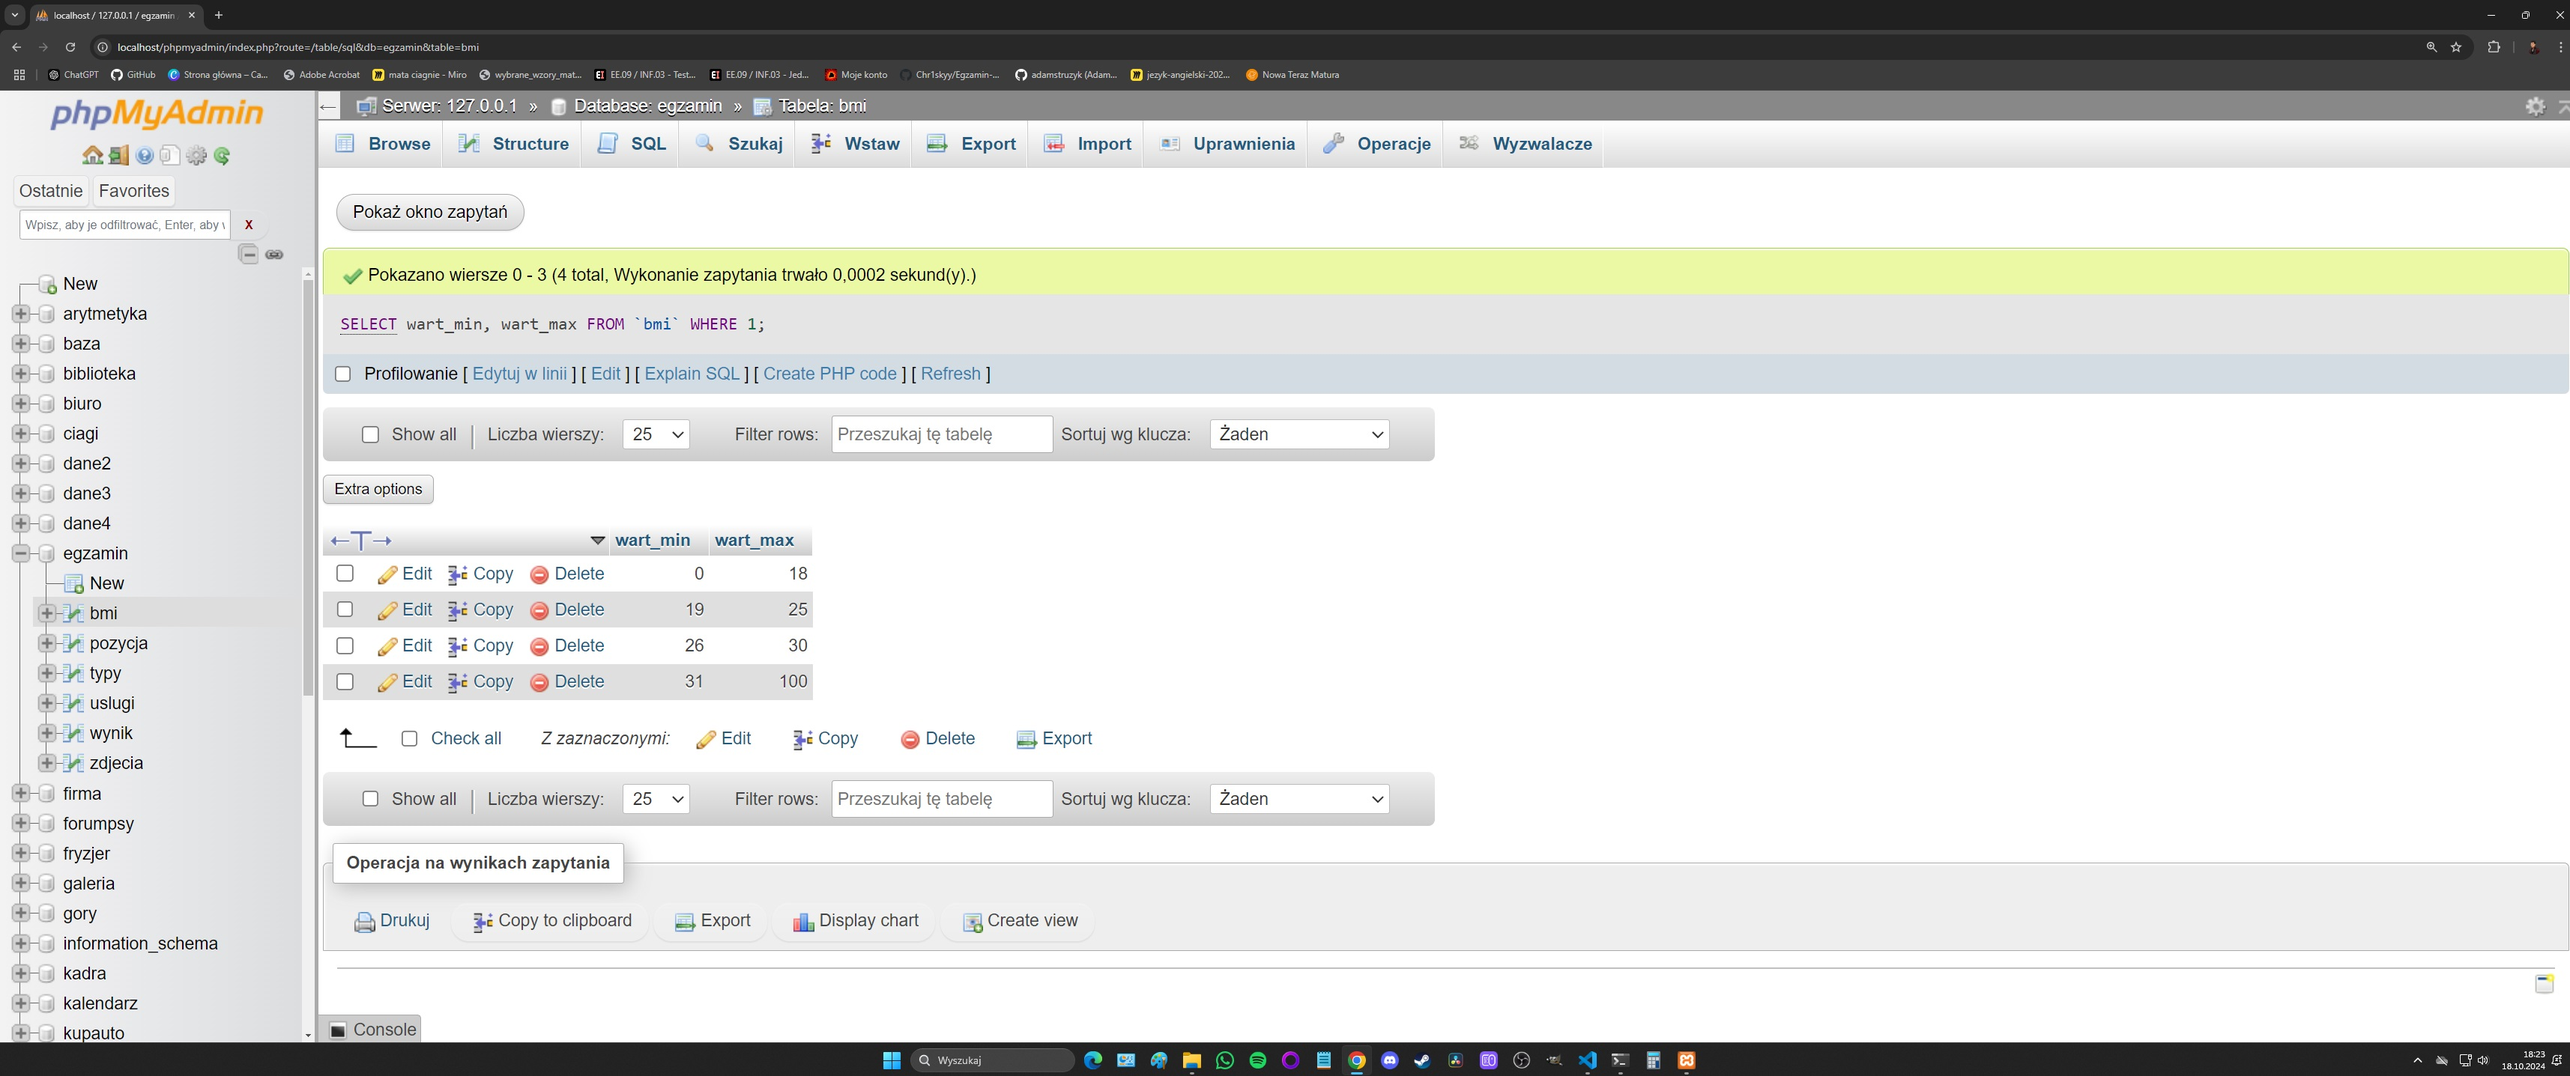
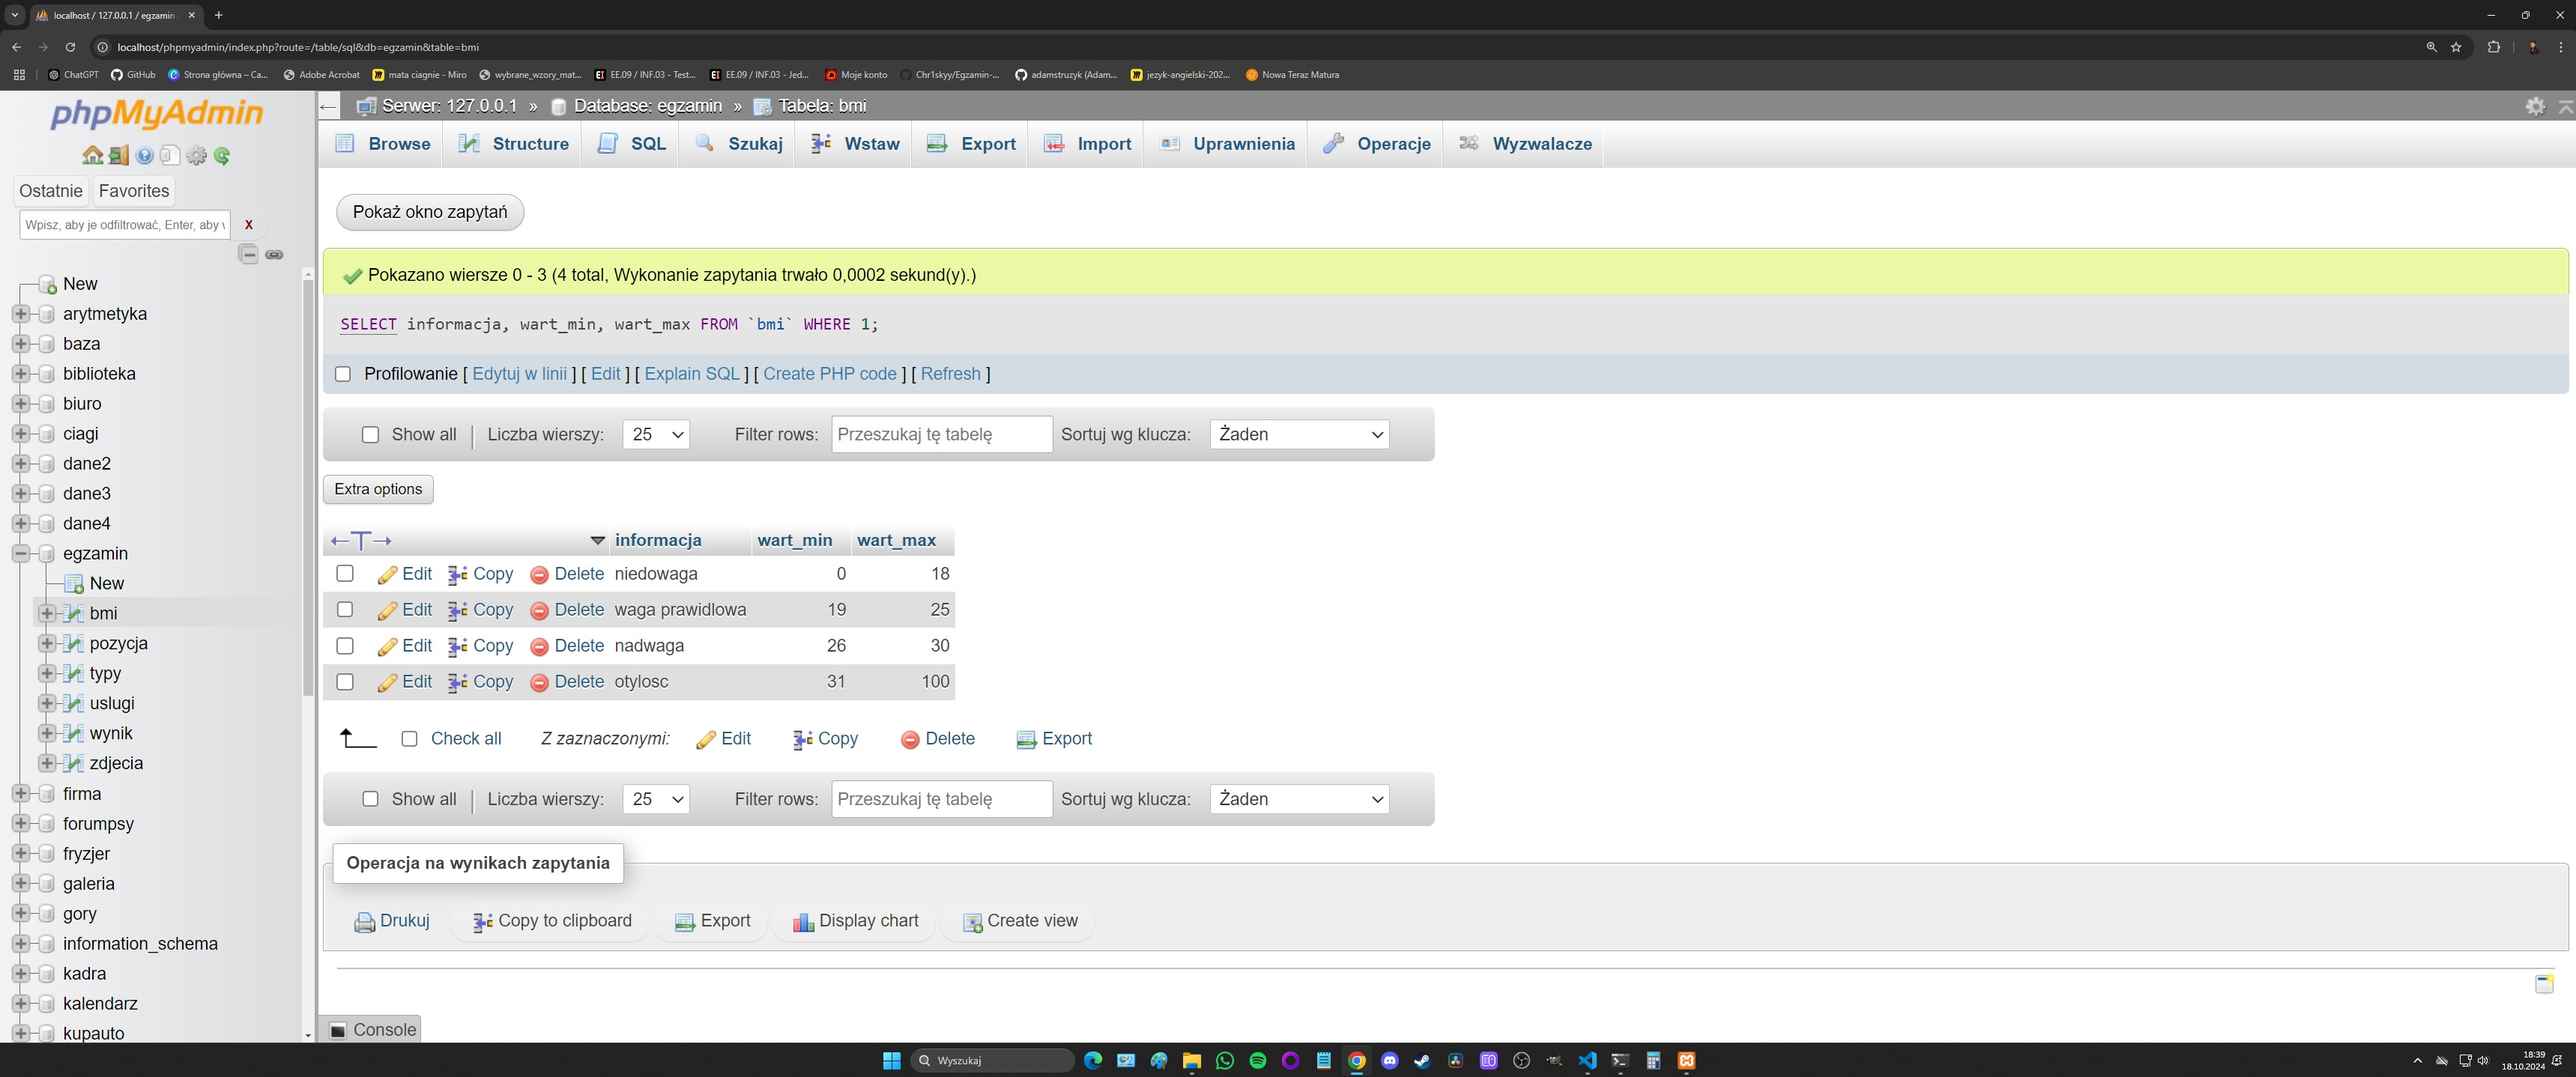
php

diff --git a/W_TRAKCIE/ee09_2021_01_03/rozwiazanie/styl3.css b/W_TRAKCIE/ee09_2021_01_03/rozwiazanie/styl3.css
@@ -58,7 +58,7 @@ table{
     border: 1px double white;
 }
 
-td:hover{
+tr:hover{
     background-color: #d3d3d3;
     color: black;
 }

diff --git a/W_TRAKCIE/ee09_2021_01_03/rozwiazanie/bmi.php b/W_TRAKCIE/ee09_2021_01_03/rozwiazanie/bmi.php
@@ -1,0 +1,90 @@
+<!DOCTYPE html>
+<html lang="pl">
+<head>
+    <meta charset="UTF-8">
+    <meta name="viewport" content="width=device-width, initial-scale=1.0">
+    <link rel="stylesheet" href="styl3.css">
+    <title>Twoje BMI</title>
+</head>
+<body>
+    <header id="logo">
+        <img src="wzor.png" alt="wzór BMI">
+    </header>
+    <header id="baner">
+        <h1>Oblicz swoje BMI</h1>
+    </header>
+    <main>
+        <table>
+            <tr>
+                <th>Interpretacja BMI</th>
+                <th>Wartość minimalna</th>
+                <th>Wartość maksymalna</th>
+            </tr>
+            <!-- skrypt 1 -->
+            <?php
+                $polaczenie = mysqli_connect('localhost', 'root', '', 'egzamin');
+                if(!$polaczenie){
+                    exit();
+                }
+                else{
+                    $zapytanie = "SELECT informacja, wart_min, wart_max FROM `bmi` WHERE 1;";
+                    $odpowiedz = mysqli_query($polaczenie, $zapytanie);
+                    $text = " ";
+                    while($tablica = mysqli_fetch_row($odpowiedz)){
+                        $text .= "<tr>";
+                        $text .= "<td>$tablica[0]</td>";
+                        $text .= "<td>$tablica[1]</td>";
+                        $text .= "<td>$tablica[2]</td>";
+                        $text .= "</tr>";
+                    }
+                    echo $text;
+                }
+                mysqli_close($polaczenie);
+            ?>
+        </table>
+    </main>
+    <section id="lewy">
+        <h2>Podaj wagę i wzrost</h2>
+        <form action="bmi.php" method="post">
+            Waga: <input type="number" name="waga" min="1"><br>
+            Wzrost w cm: <input type="number" name="wzrost" min="1"><br>
+            <input type="submit" value="Oblicz i zapamiętaj wynik">
+        </form>
+        <!-- skrypt 2 -->
+        <?php
+            $polaczenie = mysqli_connect('localhost', 'root', '' , 'egzamin');
+            if(!$polaczenie){
+                exit();
+            }
+            else{
+                if(!empty($_POST['waga']) && !empty($_POST['wzrost'])){
+                    $waga = $_POST['waga'];
+                    $wzrost = $_POST['wzrost'];
+
+                    $bmi = $waga/($wzrost * $wzrost);
+                    $bmi *= 10000;
+                    echo "Twoja waga: $waga; Twój wzrost: $wzrost <br>BMI wynosi: $bmi";
+
+                    $przedzial = 0;
+                    if($bmi >= 0 && $bmi <= 18) $przedzial = 1;
+                    else if($bmi >= 19 && $bmi <=25) $przedzial = 2;
+                    else if($bmi >= 16 && $bmi <= 30) $przedzial = 3;
+                    else if($bmi >= 31 && $bmi <=100) $przedzial = 4; 
+
+                    $data_pomiaru = date('Y-m-d');
+                    $zapytanie = "INSERT INTO `wynik`(`bmi_id`, `data_pomiaru`, `wynik`) VALUES ('$przedzial','$data_pomiaru','$bmi');";
+                    mysqli_query($polaczenie, $zapytanie);
+                }
+            }
+            mysqli_close($polaczenie);
+        ?>
+    </section>
+    <section  id="prawy">
+        <img src="rys1.png" alt="ćwiczenia">
+    </section>
+    <footer>
+        Autor: Szymon Maniak 5TI
+        <a href="kwerendy.txt">Zobacz kwerendy</a>
+    </footer>
+</body>
+</html>
